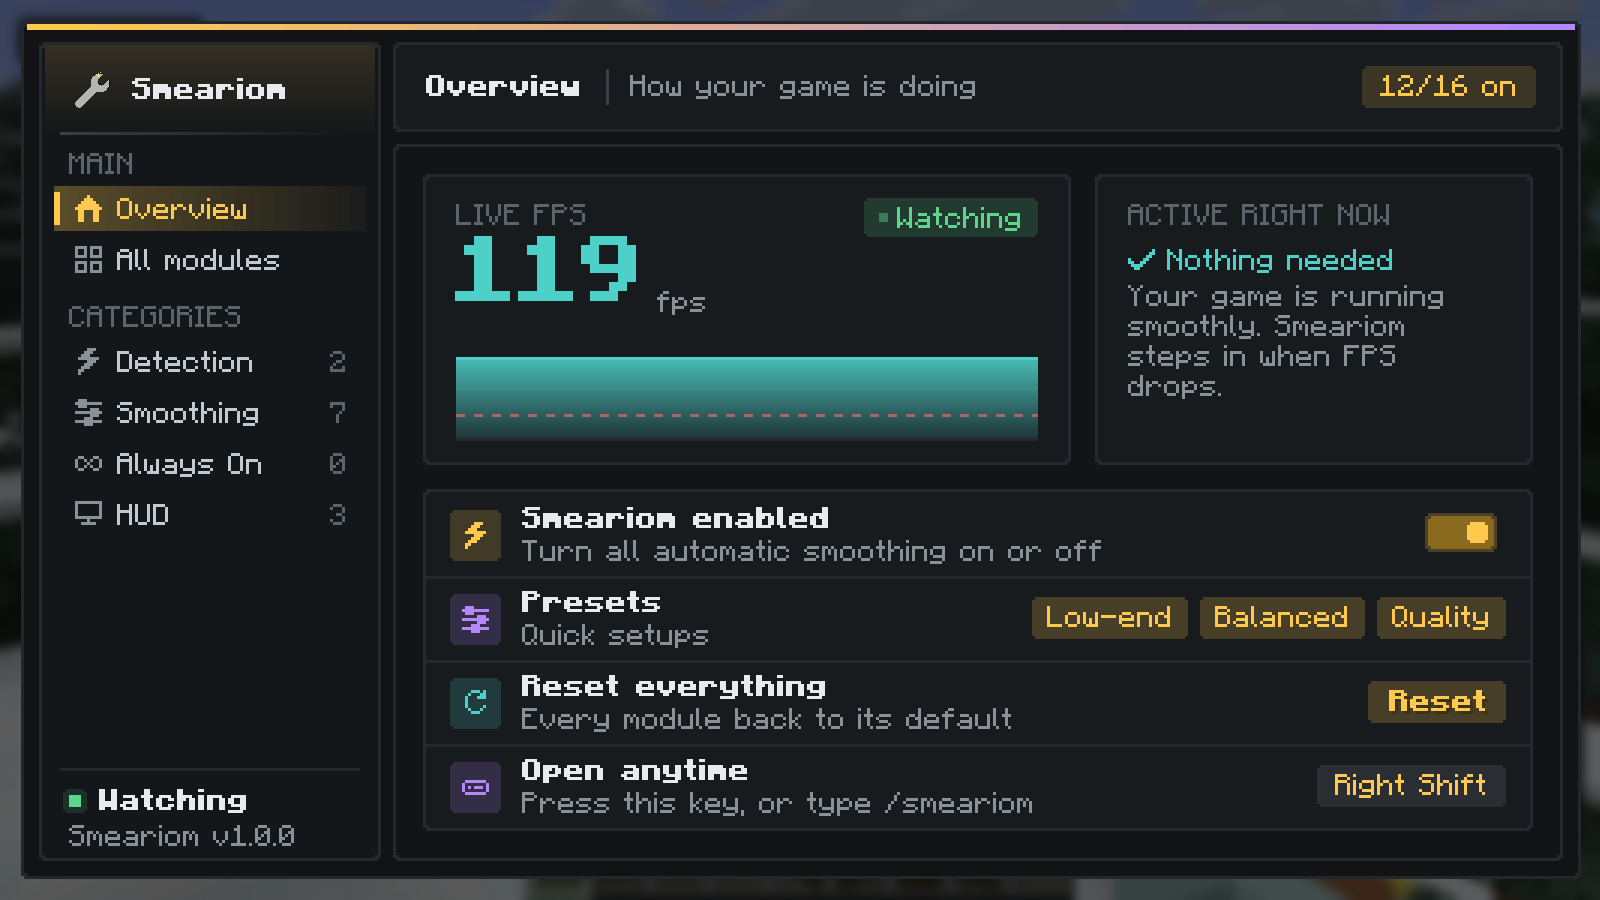
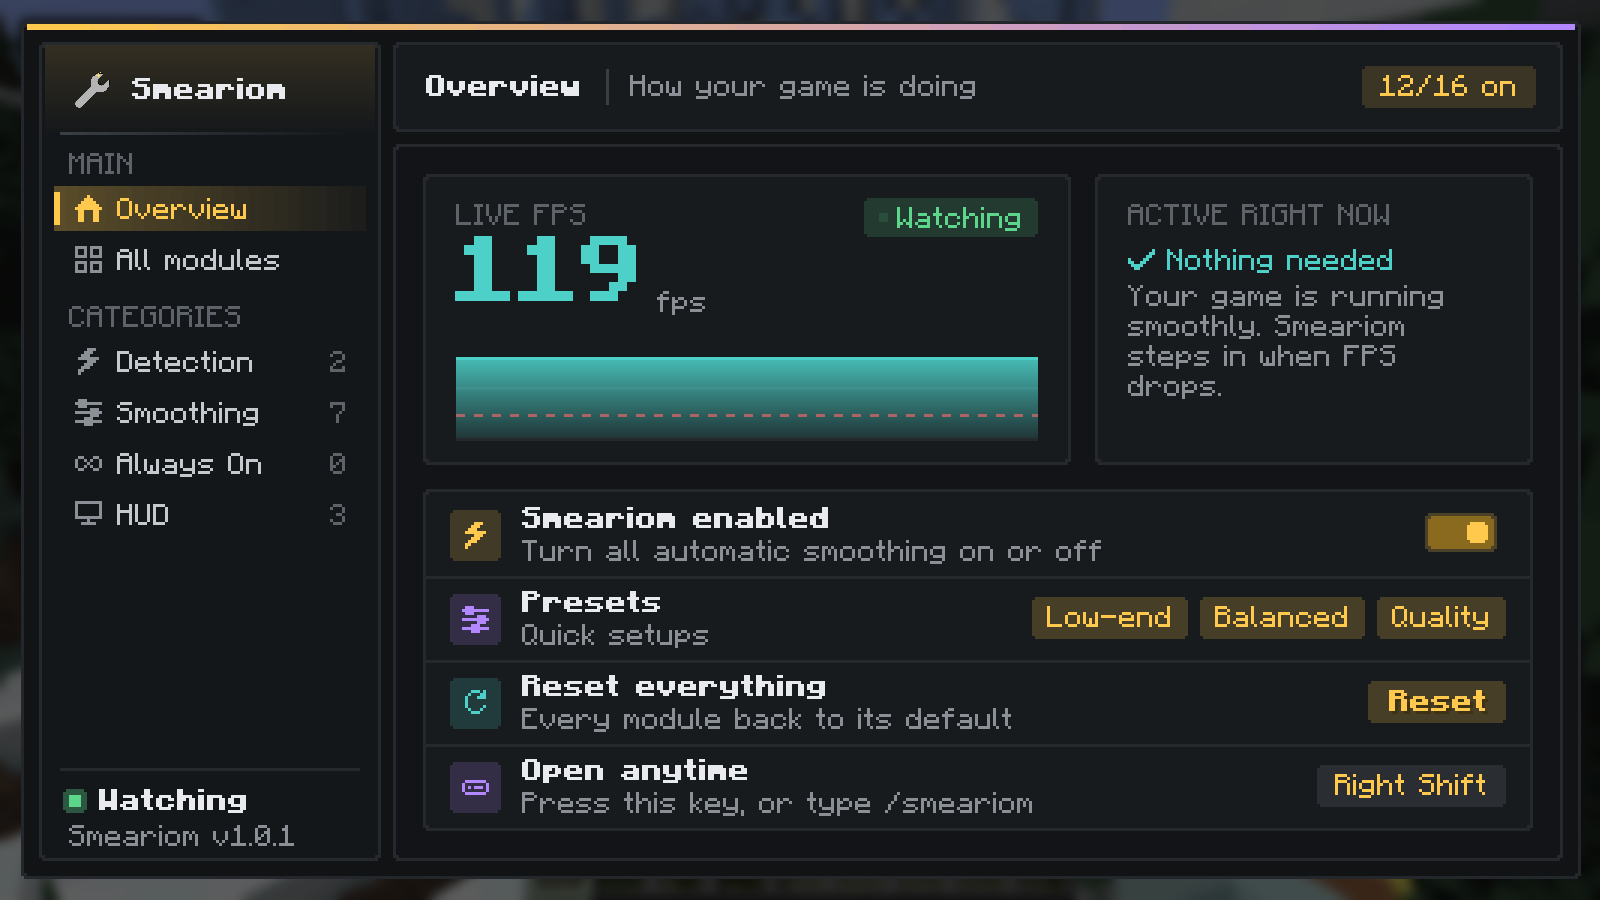
Add files via upload

diff --git a/README.md b/README.md
@@ -18,8 +18,8 @@ Grab the jar for your Minecraft version from the [**Releases**](../../releases) 
 
 | Minecraft | File |
 |---|---|
-| 26.2 | `smeariom-1.0.0+26.2.jar` |
-| 1.21.11 | `smeariom-1.0.0+1.21.11.jar` |
+| 26.2 | `smeariom-1.0.1+26.2.jar` |
+| 1.21.11 | `smeariom-1.0.1+1.21.11.jar` |
 
 You also need [Fabric Loader](https://fabricmc.net/use/) and [Fabric API](https://modrinth.com/mod/fabric-api). [Mod Menu](https://modrinth.com/mod/modmenu) is optional.
 
